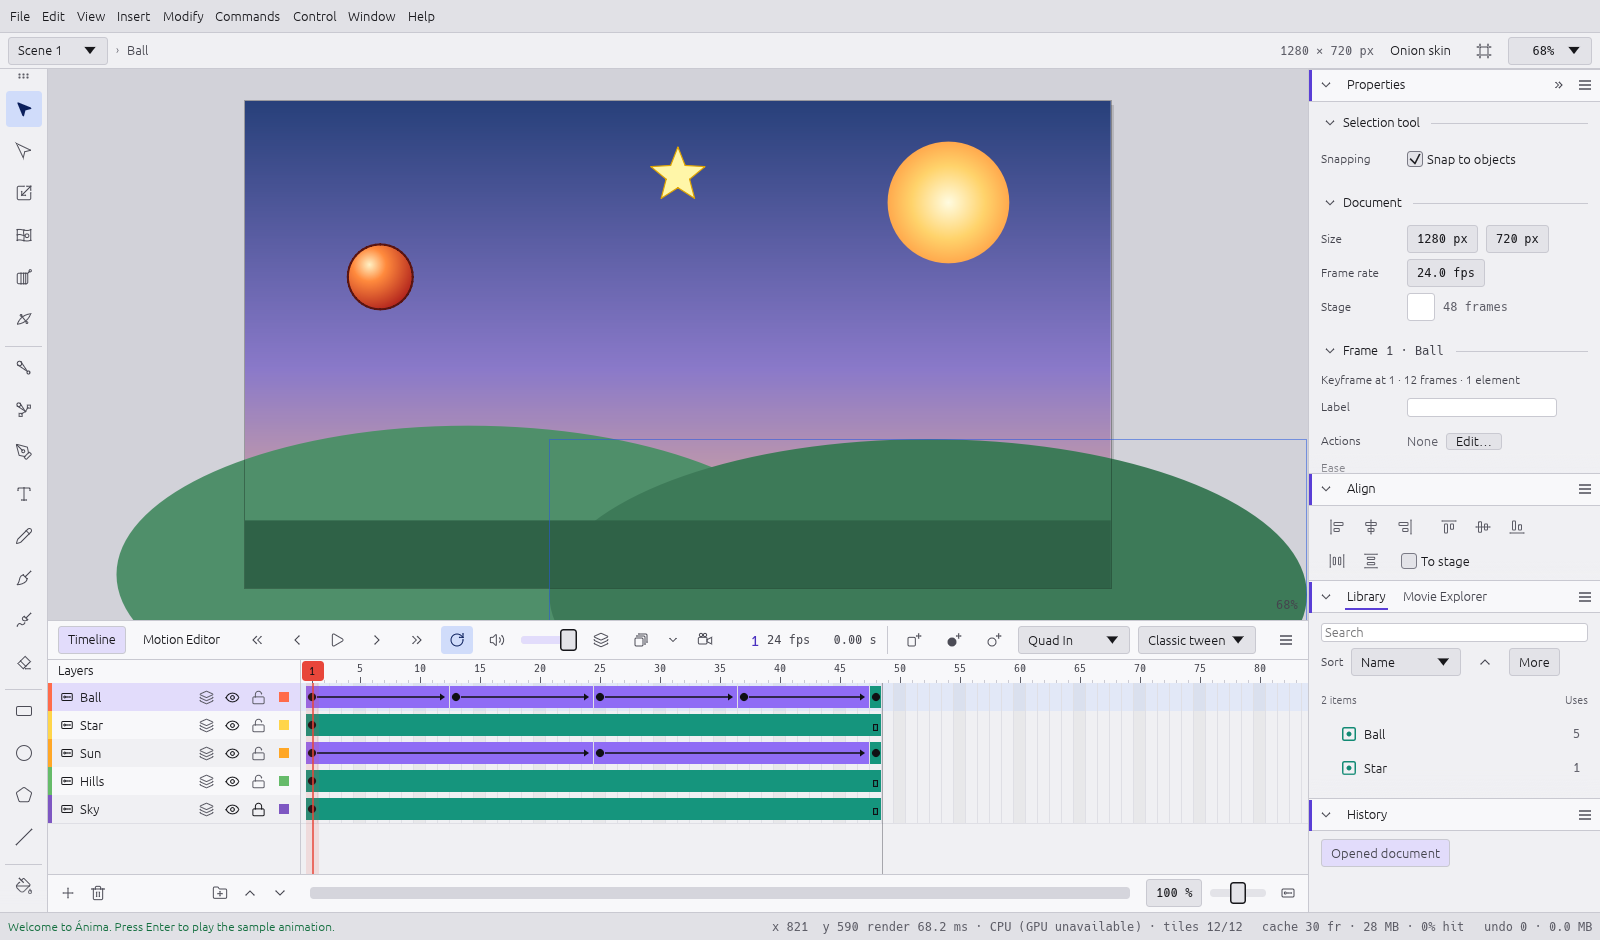
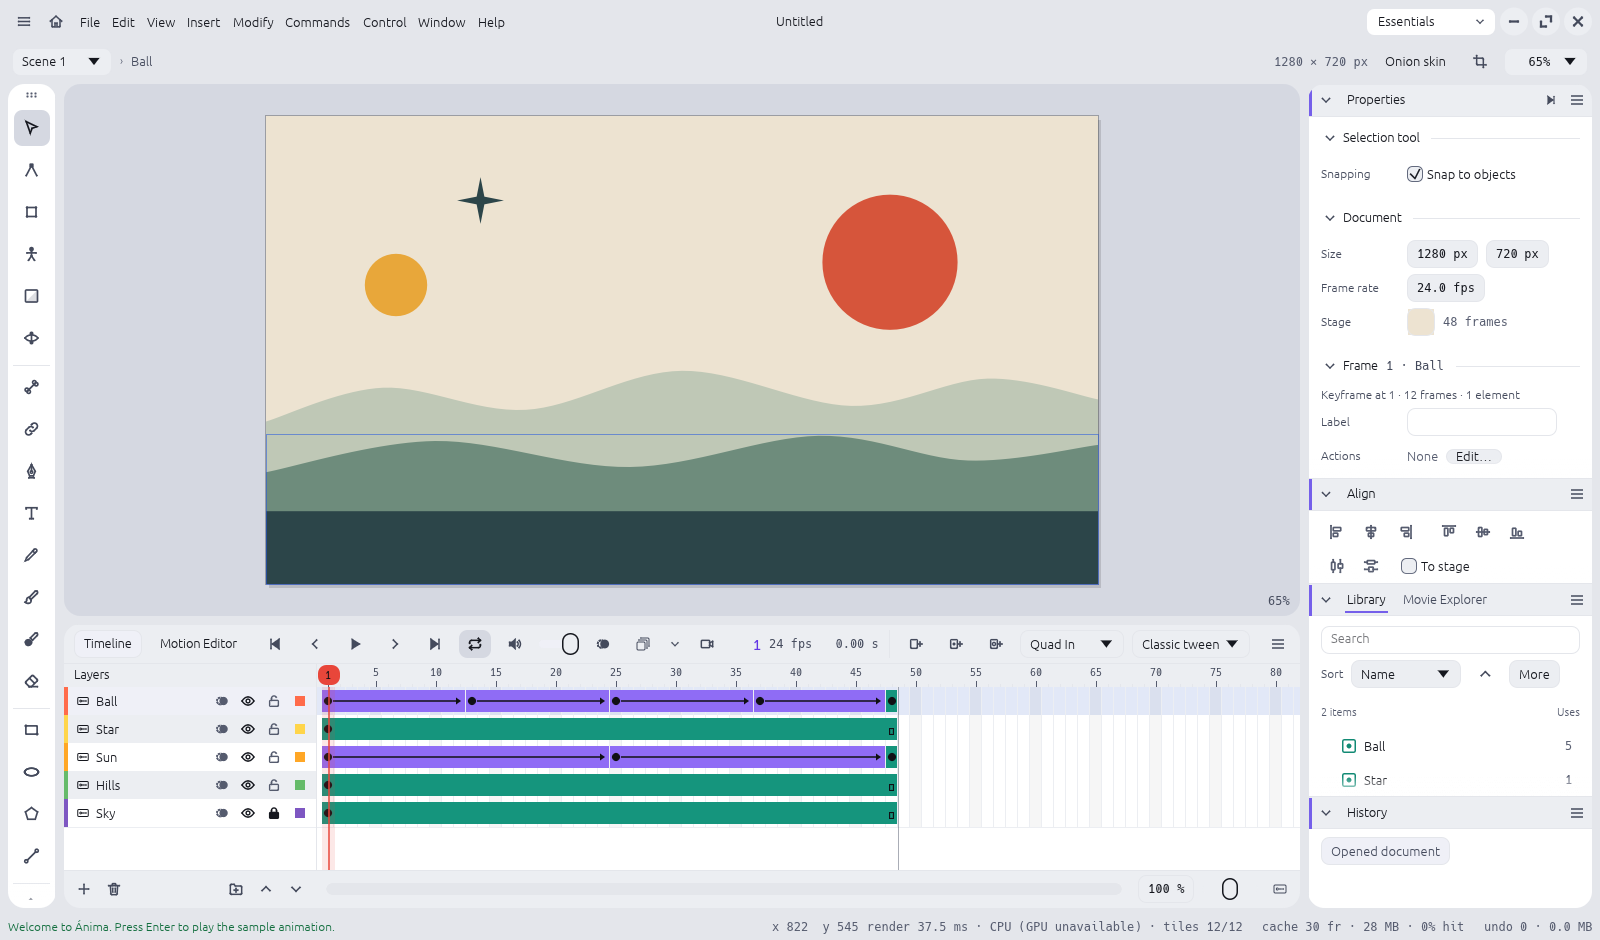
feat(doc): an evening landscape in flat colours as the sample animation
The sample is what first launch, the README's screenshots and the GIF show.
It keeps its layers, symbols, keyframes and tweens (Ball, Star, Sun, Hills,
Sky) and redraws them in a flat, print-like palette original to Anima: a
paper sky, a vermilion sun, sage and moss ridges, an ink meadow, an ochre
ball and a four-point ink star. The ridges stay inside the stage.

The SVG export test gave its own sky a gradient, since the sample no
longer has one.

Claude-Session: https://claude.ai/code/session_018FLRxYeX7hf6Y9ovQPjbas

diff --git a/crates/doc/src/sample.rs b/crates/doc/src/sample.rs
@@ -1,17 +1,13 @@
 //! Generated documents: the demo scene (first launch, tests, `anima-cli --sample`) and a
 //! deterministic stress document for benchmarks. All artwork is simple generated geometry
-//! (no third-party assets).
+//! (no third-party assets): the demo's flat palette and ridges are original to Ánima.
 
 use crate::{
-    ColorEffect, Document, Easing, Element, ElementId, ElementKind, GradientStop, Keyframe, Layer, LayerId, LoopMode, Paint, Rgba, Shape, Stage,
-    Symbol, SymbolId, SymbolKind, Timeline, Tween,
+    ColorEffect, Document, Easing, Element, ElementId, ElementKind, Keyframe, Layer, LayerId, LoopMode, Paint, Rgba, Shape, Stage, Symbol, SymbolId,
+    SymbolKind, Timeline, Tween,
 };
 use anima_geom::{Affine, Decomposed, Path, Vec2};
 use std::sync::Arc;
-
-fn stops(cs: &[(f32, u32)]) -> Vec<GradientStop> {
-    cs.iter().map(|&(offset, c)| GradientStop { offset, color: Rgba::hex(c) }).collect()
-}
 
 fn el(doc: &mut Document, name: &str, transform: Affine, kind: ElementKind) -> Arc<Element> {
     Arc::new(Element { id: ElementId(doc.alloc_id()), name: name.into(), transform, color: ColorEffect::default(), kind })
@@ -46,10 +42,28 @@ fn key(start: u32, duration: u32, elements: Vec<Arc<Element>>, tween: Option<Eas
     k
 }
 
-/// Builds the demo document: a bouncing ball, a spinning star, a pulsing sun over hills.
+/// A ridge line through `points` (Catmull-Rom, as cubics), closed down to `bottom`.
+fn ridge(points: &[(f32, f32)], bottom: f32) -> Path {
+    let pts: Vec<Vec2> = points.iter().map(|&(x, y)| Vec2::new(x, y)).collect();
+    let mut p = Path::new();
+    let (Some(&first), Some(&last)) = (pts.first(), pts.last()) else { return p };
+    p.move_to(Vec2::new(first.x, bottom)).line_to(first);
+    for i in 0..pts.len().saturating_sub(1) {
+        let at = |j: usize| pts.get(j).copied().unwrap_or(last);
+        let (p0, p1, p2, p3) = (at(i.saturating_sub(1)), at(i), at(i + 1), at(i + 2));
+        let c1 = Vec2::new(p1.x + (p2.x - p0.x) / 6.0, p1.y + (p2.y - p0.y) / 6.0);
+        let c2 = Vec2::new(p2.x - (p3.x - p1.x) / 6.0, p2.y - (p3.y - p1.y) / 6.0);
+        p.cubic_to(c1, c2, p2);
+    }
+    p.line_to(Vec2::new(last.x, bottom)).close();
+    p
+}
+
+/// Builds the demo document: an evening landscape in flat colours, with a ball bouncing across
+/// the meadow, the evening star turning and the setting sun breathing over the ridges.
 pub fn demo() -> Document {
     let mut d = Document {
-        stage: Stage { width: 1280, height: 720, fps: 24.0, background: Rgba::WHITE },
+        stage: Stage { width: 1280, height: 720, fps: 24.0, background: Rgba::hex(PAPER) },
         scenes: vec![Arc::new(crate::Scene::new("Scene 1"))],
         library: Vec::new(),
         bitmaps: Vec::new(),
@@ -63,14 +77,11 @@ pub fn demo() -> Document {
         next_id: 1,
     };
     let (w, h) = (1280.0, 720.0);
+    let solid = |c: u32| Paint::Solid(Rgba::hex(c));
 
     // --- library -------------------------------------------------------------------------
     let ball_id = SymbolId(d.alloc_id());
-    let ball_shape = Shape::filled(
-        Path::ellipse(0.0, 0.0, 48.0, 48.0),
-        Paint::radial(Vec2::new(-16.0, -18.0), 70.0, stops(&[(0.0, 0xfff1c4), (0.35, 0xff8a3d), (1.0, 0xb3261e)])),
-    )
-    .with_stroke(Rgba::hex(0x5a1410), 3.0);
+    let ball_shape = Shape::filled(Path::ellipse(0.0, 0.0, 48.0, 48.0), solid(OCHRE));
     let ball_el = el(&mut d, "ball body", Affine::IDENTITY, ElementKind::Shape(ball_shape));
     let ball_layer = layer(d.alloc_id(), "body", 0x4fa3ff, vec![key(0, 1, vec![ball_el], None)]);
     d.library.push(Arc::new(Symbol {
@@ -84,7 +95,7 @@ pub fn demo() -> Document {
     }));
 
     let star_id = SymbolId(d.alloc_id());
-    let star_shape = Shape::filled(Path::star(0.0, 0.0, 60.0, 26.0, 5), Paint::Solid(Rgba::hex(0xfff6a8))).with_stroke(Rgba::hex(0xe0a400), 2.5);
+    let star_shape = Shape::filled(Path::star(0.0, 0.0, 60.0, 14.0, 4), solid(INK));
     let star_el_id = ElementId(d.alloc_id()); // same id across keyframes: one instance over time
     let star_keys = [0.0f32, 120.0, 240.0, 360.0]
         .into_iter()
@@ -114,7 +125,7 @@ pub fn demo() -> Document {
     // --- main timeline (index 0 = top) ---------------------------------------------------
     const LEN: u32 = 48;
 
-    // Ball: bounces across the stage with squash at each impact.
+    // Ball: bounces across the meadow with squash at each impact.
     let ball_layer_id = d.alloc_id();
     let ball_inst = ElementId(d.alloc_id());
     let poses = [
@@ -144,24 +155,21 @@ pub fn demo() -> Document {
 
     // Star: a nested, self-animating graphic symbol.
     let star_layer_id = d.alloc_id();
-    let star_el = el(&mut d, "star", pose(640.0, 110.0, 0.7, 0.7, 0.0), instance(star_id));
+    let star_el = el(&mut d, "star", pose(330.0, 130.0, 0.6, 0.6, 0.0), instance(star_id));
     let star = layer(star_layer_id, "Star", 0xffd54a, vec![key(0, LEN, vec![star_el], None)]);
 
-    // Sun: pulses with an ease in-out.
+    // Sun: low over the ridges, breathing with an ease in-out.
     let sun_layer_id = d.alloc_id();
     let sun_inst = ElementId(d.alloc_id());
-    let sun_shape = Shape::filled(
-        Path::ellipse(0.0, 0.0, 90.0, 90.0),
-        Paint::radial(Vec2::ZERO, 90.0, stops(&[(0.0, 0xfffbe0), (0.6, 0xffd36b), (1.0, 0xffa94d)])),
-    );
-    let sun_keys = [(0u32, 24u32, 1.0f32), (24, 23, 1.15), (47, 1, 1.0)]
+    let sun_shape = Shape::filled(Path::ellipse(0.0, 0.0, 104.0, 104.0), solid(VERMILION));
+    let sun_keys = [(0u32, 24u32, 1.0f32), (24, 23, 1.06), (47, 1, 1.0)]
         .into_iter()
         .enumerate()
         .map(|(i, (start, dur, s))| {
             let e = Element {
                 id: sun_inst,
                 name: "sun".into(),
-                transform: pose(1040.0, 150.0, s, s, 0.0),
+                transform: pose(960.0, 225.0, s, s, 0.0),
                 color: ColorEffect::default(),
                 kind: ElementKind::Shape(sun_shape.clone()),
             };
@@ -170,35 +178,39 @@ pub fn demo() -> Document {
         .collect();
     let sun = layer(sun_layer_id, "Sun", 0xffa726, sun_keys);
 
-    // Hills and ground.
+    // Hills: two ridges and the meadow the ball lands on.
     let hills_id = d.alloc_id();
     let mut hill_els = Vec::new();
     for (name, path, c) in [
-        ("far hill", Path::ellipse(330.0, 700.0, 520.0, 220.0), 0x4f8f6a),
-        ("near hill", Path::ellipse(1010.0, 730.0, 560.0, 230.0), 0x3d7a58),
-        ("ground", Path::rect(0.0, 620.0, w, h - 620.0), 0x2f6247),
+        (
+            "far hill",
+            ridge(&[(0.0, 470.0), (180.0, 418.0), (400.0, 452.0), (640.0, 392.0), (900.0, 446.0), (1110.0, 404.0), (1280.0, 436.0)], h),
+            SAGE,
+        ),
+        ("near hill", ridge(&[(0.0, 548.0), (260.0, 500.0), (560.0, 540.0), (850.0, 492.0), (1080.0, 530.0), (1280.0, 506.0)], h), MOSS),
+        ("ground", Path::rect(0.0, 608.0, w, h - 608.0), INK),
     ] {
-        hill_els.push(el(&mut d, name, Affine::IDENTITY, ElementKind::Shape(Shape::filled(path, Paint::Solid(Rgba::hex(c))))));
+        hill_els.push(el(&mut d, name, Affine::IDENTITY, ElementKind::Shape(Shape::filled(path, solid(c)))));
     }
     let hills = layer(hills_id, "Hills", 0x66bb6a, vec![key(0, LEN, hill_els, None)]);
 
     // Sky.
     let sky_id = d.alloc_id();
-    let sky_el = el(
-        &mut d,
-        "sky",
-        Affine::IDENTITY,
-        ElementKind::Shape(Shape::filled(
-            Path::rect(0.0, 0.0, w, h),
-            Paint::linear(Vec2::new(0.0, 0.0), Vec2::new(0.0, h), stops(&[(0.0, 0x27407a), (0.55, 0x8a79c9), (1.0, 0xf7b98b)])),
-        )),
-    );
+    let sky_el = el(&mut d, "sky", Affine::IDENTITY, ElementKind::Shape(Shape::filled(Path::rect(0.0, 0.0, w, h), solid(PAPER))));
     let mut sky = layer(sky_id, "Sky", 0x7e57c2, vec![key(0, LEN, vec![sky_el], None)]);
     Arc::make_mut(&mut sky).locked = true;
 
     d.timeline_mut(0).layers = vec![ball, star, sun, hills, sky];
     d
 }
+
+// The demo's palette: flat, print-like colours, original to Ánima.
+const PAPER: u32 = 0xede3d1;
+const VERMILION: u32 = 0xd6553b;
+const OCHRE: u32 = 0xe8a73a;
+const SAGE: u32 = 0xbfc8b6;
+const MOSS: u32 = 0x6e8c7c;
+const INK: u32 = 0x2c4549;
 
 /// A small interactive movie (ADR 0024): a menu that stops on its first frame with a Play
 /// button; clicking it plays a short show (a spinning movie clip and a ball rolling across),

diff --git a/crates/engine/src/tests.rs b/crates/engine/src/tests.rs
@@ -305,13 +305,20 @@ fn svg_frame_export_writes_vectors_and_asks_before_replacing() {
     std::fs::create_dir_all(&dir).unwrap();
     let path = dir.join("frame.svg");
     let _ = std::fs::remove_file(&path);
-    let mut s = Session::new(sample::demo());
+    // The demo is drawn in flat colours: give its sky a gradient so the export has one to keep.
+    let mut doc = sample::demo();
+    let sky = std::sync::Arc::make_mut(doc.timeline_mut(0).layers.last_mut().unwrap());
+    let sky = std::sync::Arc::make_mut(&mut std::sync::Arc::make_mut(&mut sky.keyframes[0]).elements[0]);
+    let anima_doc::ElementKind::Shape(shape) = &mut sky.kind else { panic!("the sky is a shape") };
+    let stops = [(0.0, 0x27407a), (1.0, 0xf7b98b)].map(|(offset, c)| anima_doc::GradientStop { offset, color: anima_doc::Rgba::hex(c) });
+    shape.fill = Some(anima_doc::Paint::linear(anima_geom::Vec2::new(0.0, 0.0), anima_geom::Vec2::new(0.0, 720.0), stops.to_vec()));
+    let mut s = Session::new(doc);
     let p = json!({"path": path.display().to_string(), "frame": 10});
     let v = run(&mut s, "file.export_svg", p.clone());
     let text = std::fs::read_to_string(&path).unwrap();
     assert_eq!(v["bytes"].as_u64().unwrap() as usize, text.len());
     assert!(text.starts_with("<svg xmlns=\"http://www.w3.org/2000/svg\" width=\"1280\" height=\"720\""));
-    assert!(text.contains("radialGradient") || text.contains("linearGradient"), "the sample's gradients stay vector");
+    assert!(text.contains("radialGradient") || text.contains("linearGradient"), "gradients stay vector");
     assert_eq!(text, crate::cmds_file::frame_svg(&s.doc, 10));
     assert!(s.execute("file.export_svg", &p).is_err(), "replacing a file needs consent");
     run(&mut s, "file.export_svg", json!({"path": path.display().to_string(), "frame": 10, "confirm": true}));

diff --git a/README.md b/README.md
@@ -25,7 +25,7 @@
 </div>
 
 <p align="center">
-  <img src="docs/images/ui-dark.png" width="100%" alt="Ánima in its dark theme with the sample animation open: a ball, a star and a sun over hills at dusk on the stage, the tools on the left, the timeline with five layers and their tweens below, and the Properties and Library panels on the right">
+  <img src="docs/images/ui-dark.png" width="100%" alt="Ánima in its dark theme with the sample animation open: an evening landscape in flat colours, with a ball, a star and the sun over the ridges on the stage, the tools on the left, the timeline with five layers and their tweens below, and the Properties and Library panels on the right">
   <br><sub><b>The sample animation</b> in the dark theme: stage, tools, timeline with classic tweens, Properties and Library.</sub>
 </p>
 
@@ -49,7 +49,7 @@ scripts and agents can run too.
 <table>
   <tr>
     <td width="50%"><img src="docs/images/ui-light.png" alt="Ánima in its light theme with the same sample animation open"></td>
-    <td width="50%"><img src="docs/images/sample-animation.gif" alt="The sample animation: a ball bounces and squashes across hills at dusk while a star spins and the sun pulses"></td>
+    <td width="50%"><img src="docs/images/sample-animation.gif" alt="The sample animation: a ball bounces and squashes across the meadow while the evening star turns and the sun breathes over the ridges"></td>
   </tr>
   <tr>
     <td><sub><b>Light theme</b>: the theme is chosen in Preferences.</sub></td>

diff --git a/CHANGELOG.md b/CHANGELOG.md
@@ -2,6 +2,9 @@
 
 ## Unreleased
 
+* **A new sample animation**: an evening landscape in flat colours, with the ball bouncing
+  across the meadow, the evening star turning and the sun breathing over the ridges. The README's
+  screenshots and GIF show it.
 * **Sound output polish** (ADR 0095, M5).
   * The playhead follows the sound being **heard**: the device's latency is taken off and slow
     frames are dropped rather than drifting (within a frame over an hour of play in tests).
